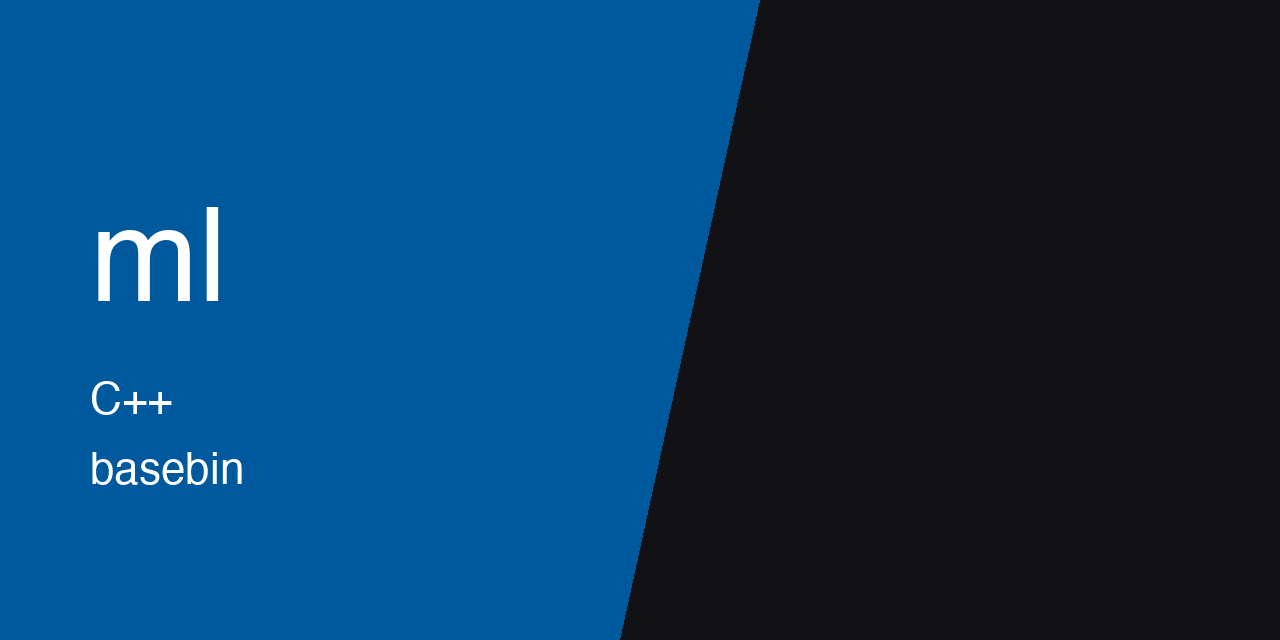
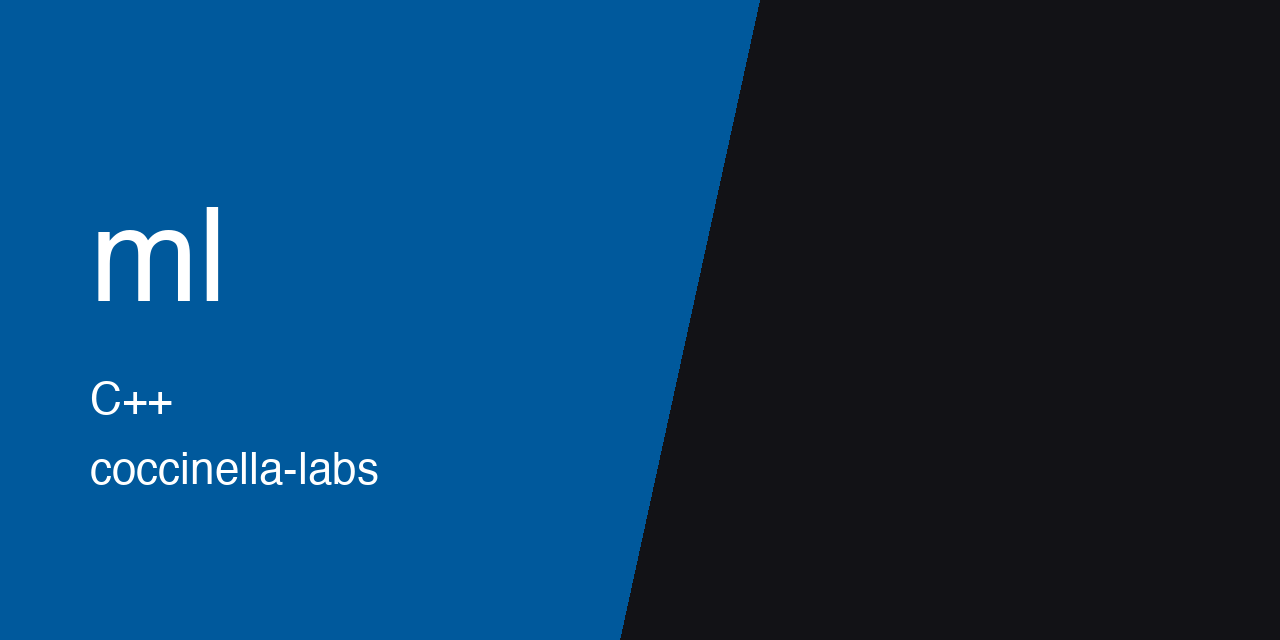
[docs] move thumbnail to coccinella-labs

Changed region(s): [[0.0625, 0.7188, 0.3125, 0.7812]]

diff --git a/README.md b/README.md
@@ -1,4 +1,8 @@
 <p align="center">
+  <img src="https://raw.githubusercontent.com/Coccinella-Labs/ml/main/.github/assets/thumbnail.png" alt="ml" width="100%">
+</p>
+
+<p align="center">
   <img src="https://raw.githubusercontent.com/coccinella-labs/ml/main/.github/assets/thumbnail.png" alt="ml" width="100%">
 </p>
 
